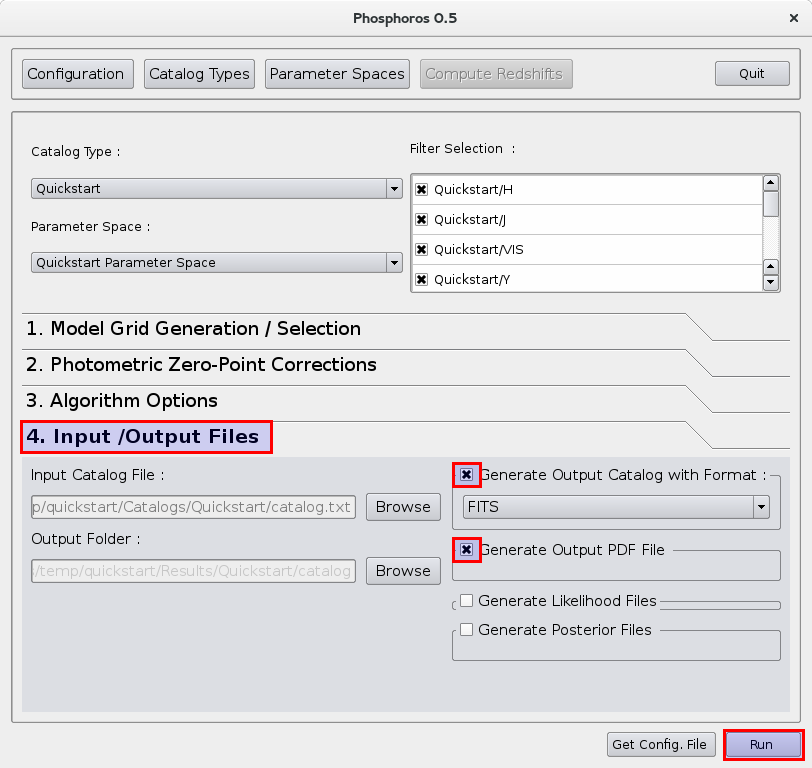
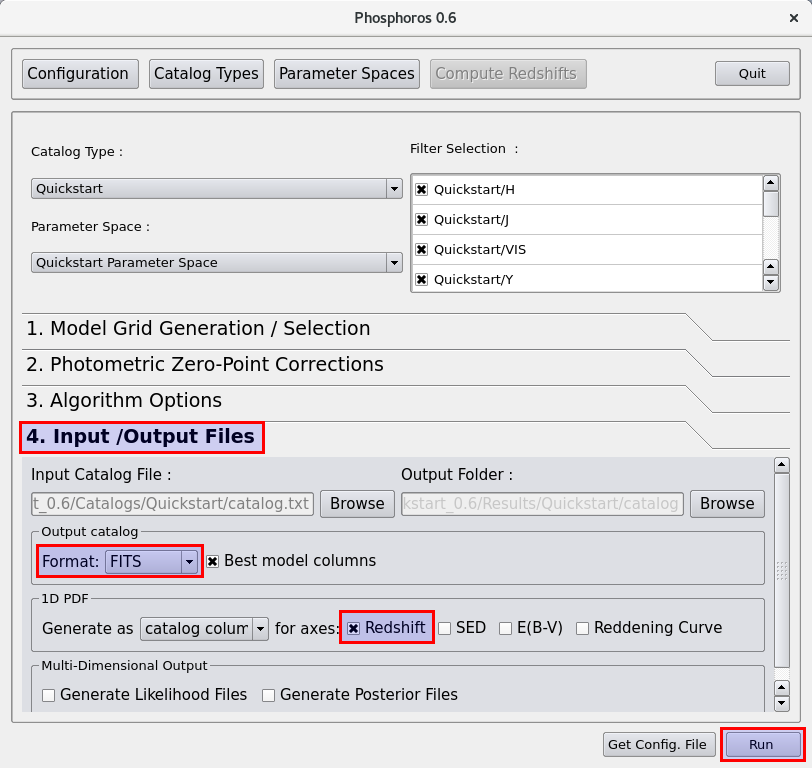
Updated the quickstart for the changes of the 0.6 release

diff --git a/source/conf.py b/source/conf.py
@@ -48,9 +48,9 @@ copyright = u'2015, ISDC'
 # built documents.
 #
 # The short X.Y version.
-version = '0.5'
+version = '0.6'
 # The full version, including alpha/beta/rc tags.
-release = '0.5'
+release = '0.6'
 
 # The language for content autogenerated by Sphinx. Refer to documentation
 # for a list of supported languages.

diff --git a/source/user_manual/quickstart.rst b/source/user_manual/quickstart.rst
@@ -25,7 +25,7 @@ following commands will get the file and uncomress it::
     cd ~
     mkdir -p Phosphoros
     cd Phosphoros
-    wget http://www.isdc.unige.ch/phosphoros/data/other/quickstart.tar.gz
+    wget http://www.isdc.unige.ch/euclid/phosphoros/data/other/quickstart.tar.gz
     tar -xzf quickstart.tar.gz
     
 .. tip:: 
@@ -113,6 +113,12 @@ Later in this User Manual, you will learn more about how to organize your catalo
 (:ref:`directory-organization`) and how to map the columns to the filters
 (:ref:`catalog-column-mapping`).
 
+For the moment, you should first click the `Edit` button, then click the
+`Select File and Import Columns` and select your catalog file. This step needs
+to be done because your home directory is different than the one in the path
+stored in the quickstart data. When you finish you have to click the `Save`
+button to persist your modification.
+
 Examining the parameter space
 =============================
 
@@ -174,16 +180,20 @@ redshifts using Phosphoros! To do that select the `4. Input/Output Files` in the
 .. figure:: /_static/quickstart/InputOutputFiles.png
     :align: center
 
-Here you can setup the input and the output parameters. Note that the catalog.txt
-file included with the quickstart data is already selected, but you can select any
-ASCII or FITS table which contains the same column names.
+Here you can setup the input and the output parameters. Note that the
+catalog.txt file included with the quickstart data is already selected as the
+input catalog, but you can select any ASCII or FITS table which contains the
+same column names.
 
-On the right side of the panel, you can select the types of outputs you want.
-The output catalog contains only the predicted redshift value, the output PDF
-file contains the 1D redshift PDFs for each source and the likelihood and posterior
-files contain the full multi-dimentional probabilities of each source. For this
-tutorial you should select to generate the output catalog in FITS format and
-the PDF files.
+As you can notice, Phosphoros has already set the output folder for you. This is
+done based on some rules for helping you to organize your outputs (and avoid
+overriding them). You can find more details about this organization :ref:`here <directory-organization>`.
+Note that you can change the output folder to any directory you like.
+
+On the rest of the panel, you can select the types of outputs you want to be
+produced  in the output directory (best fitted model, 1D PDFs, multi-dimensional
+posterior, etc). For this tutorial you should select to generate the output
+catalog in FITS format and to generate the 1D PDF for the Redshift.
 
 .. tip::
     
@@ -191,15 +201,8 @@ the PDF files.
     creation of very big files. These outputs are intended for investigating
     specific cases, as it is explained later in the User Manual (:ref:`posterior-investigation`).
 
-As you can notice, Phosphoros has already set the output folder for you. This is
-done based on some rules for helping you to organize your outputs (and avoid
-overriding them). You can find more details about this organization :ref:`here <directory-organization>`.
-Note that you can change the output folder to any directory you like.
-
-To compute the photometric redshifts for your catalog you just have to the
-`Run` button at the bottom right corner of Phosphoros and you are done! This is
-going to create two files in your output directory, the `phz_cat.fits` containing
-your catalog output, and the `pdf.fits` containing the 1D PDFs.
+To compute the photometric redshifts for your catalog you just have to press the
+`Run` button at the bottom right corner of Phosphoros and you are done!
 
 .. _quickstart_visualize_results:
 
@@ -221,7 +224,7 @@ catalog does contain the spectroscopic redshift) is the SPECZ-PHZ plot. Using
 this plot you can see how well Phosphoros performed with predicting the results.
 To see this plot for your results you will have to execute the command::
     
-    Phosphoros PSC -f Catalogs/Quickstart/catalog.txt Results/Quickstart/catalog/phz_cat.fits -pdf Results/Quickstart/catalog/pdf.fits
+    Phosphoros PSC -scat Catalogs/Quickstart/catalog.txt -pod Results/Quickstart/catalog
     
 .. tip::
     
@@ -229,8 +232,8 @@ To see this plot for your results you will have to execute the command::
         
         Phosphoros PSC --help
         
-This will open two windows, one with the SPECZ-PHZ plot and one with the distribution
-histogram.
+This will open three windows, the SPECZ-PHZ plot, the distribution histogram and
+the redshift 1D PDF.
 
 .. figure:: /_static/quickstart/SPECZ-PHZ.png
     :align: center
@@ -240,8 +243,9 @@ histogram.
     
 These plots are standard matplotlib plots, so some default functionalities (like
 zooming, etc) are available. If you select a point, you will see at the top left
-corner the ID of the source it represents. If you double-click on a point, its PDF
-will open in a new window.
+corner the ID of the source it represents and its redshift 1D PDF will be plotted.
+If you double click a point, all its column information will be printed at the
+terminal.
 
 .. figure:: /_static/quickstart/PDF.png
     :align: center
